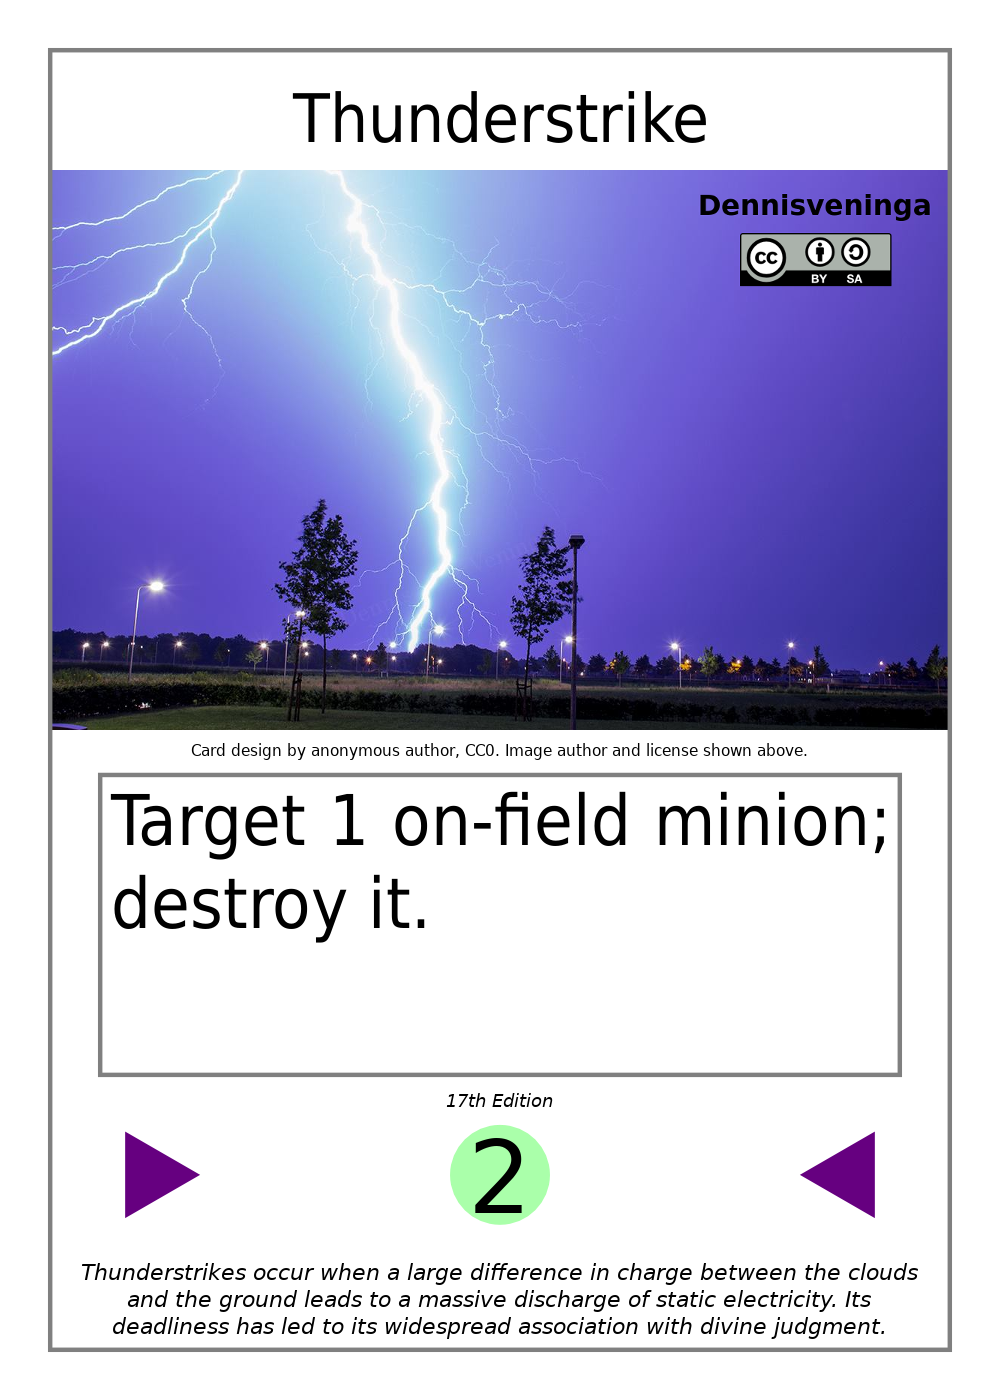
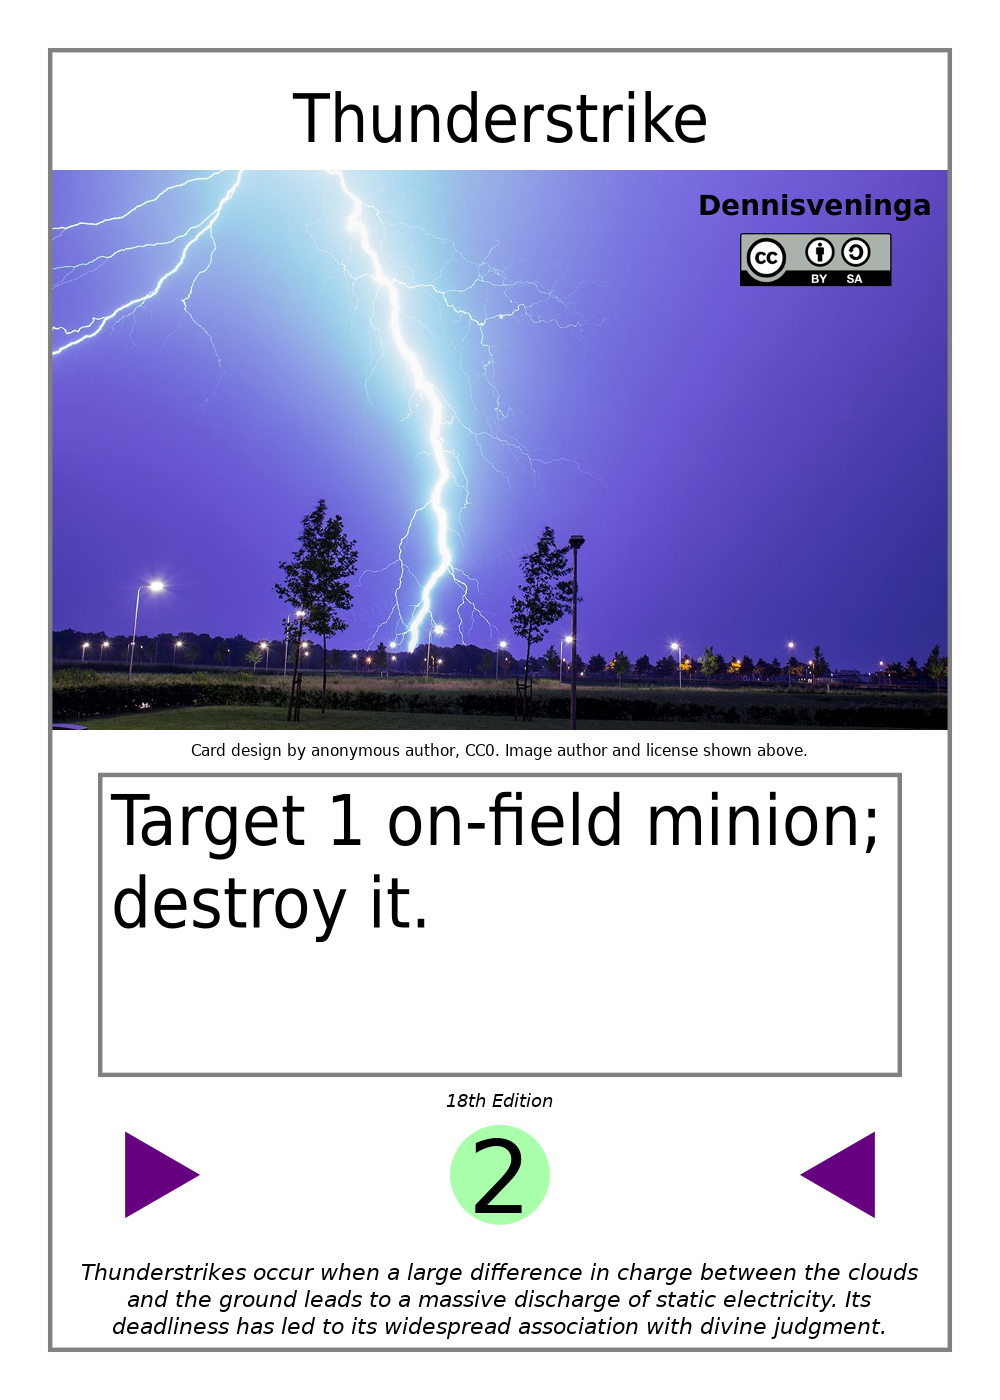
Updated the examples.
I've decided to keep Thor among the examples, since it's still a
valid card and being so similar to Thunderstrike I think makes it
easy to digest.

Changed region(s): [[0.341, 0.5529, 0.899, 0.6143], [0.155, 0.645, 0.186, 0.6757]]

diff --git a/examples.html b/examples.html
@@ -2,7 +2,7 @@
 <html lang="en">
 
 <head>
-    <title>Card Building Examples (17th Edition) - Keeper of the Cards</title>
+    <title>Card Building Examples (18th Edition) - Keeper of the Cards</title>
     <meta name="description" content="The ultimate DIY trading card game" />
     <meta name="keywords" content="kotc" />
     <meta http-equiv="content-type" content="text/html; charset=utf-8" />
@@ -24,7 +24,7 @@
     <h1 class="header">Keeper of the Cards</h1>
 
     <main>
-        <h2>Card Building Examples (17<sup>th</sup> Edition)</h2>
+        <h2>Card Building Examples (18<sup>th</sup> Edition)</h2>
         <p>This page is a supplement to the <a href="cardbuilding.html">Card Building Guide</a>. It goes over how to recreate specific examples of cards from the starter decks, starting with the least complex and gradually moving upward in complexity.</p>
 
         <div class="no-break">
@@ -33,7 +33,7 @@
             <ol type="1">
                 <li><a href="#velociraptor">Minion: Velociraptor</a></li>
                 <li><a href="#antibiotic">Spell: Antibiotic</a></li>
-                <li><a href="#asteroid">Spell: Asteroid Impact</a></li>
+                <li><a href="#tornado">Spell: Tornado</a></li>
                 <li><a href="#thunderstrike">Spell: Thunderstrike</a></li>
                 <li><a href="#thor">Minion: Thor</a></li>
                 <li><a href="#equus-africanus-asinus">Minion: Equus Africanus Asinus</a></li>
@@ -52,6 +52,7 @@
             <li>Take the minion's HP and divide it by 2. Add the result (2 in this case) to the minion's level, bringing it to 4.</li>
             <li>The minion's final level in this example is 4.</li>
         </ol>
+        <p>Note: the image also contains tutorial text explaining that the minion has Haste and how it works. Tutorial text is optional and has no effect on what the card actually does.</p>
 
         <h3 id="antibiotic">Spell: Antibiotic</h3>
         <img class="example" src="images/build-examples/antibiotic.png" alt="Antibiotic: level 2 spell with ability: &ldquo;2-dice-heal yourself.&rdquo;">
@@ -74,7 +75,7 @@
         </ol>
         <p>Note: the image also contains tutorial text explaining the dice-heal mechanic. Tutorial text is optional and has no effect on what the card actually does.</p>
 
-        <h3 id="asteroid">Spell: Tornado</h3>
+        <h3 id="tornado">Spell: Tornado</h3>
         <img class="example" src="images/build-examples/tornado.png" alt="Tornado: level 4 spell with ability: &ldquo;Target up to 2 on-field minions; destroy the targets.&rdquo;">
         <p>This spell is slightly more complex than Antibiotic, but still fairly simple, composed of a single target selection and a single effect. The following steps recreate this spell:</p>
         <ol>
@@ -129,7 +130,7 @@
 
         <h3 id="thunderstrike">Spell: Thunderstrike</h3>
         <img class="example" src="images/build-examples/thunderstrike.png" alt="Thunderstrike: level 2 spell with ability: &ldquo;Target 1 on-field minion; destroy it.&rdquo;">
-        <p>This lower-level spell is made in almost exactly the same way as Asteroid Impact. The following steps recreate it:</p>
+        <p>This lower-level spell is made in almost exactly the same way as Tornado. The following steps recreate it:</p>
         <ol>
             <li>Begin with the spell's level set to 0.</li>
             <li>Choose the effect you want from <a href="cardbuilding.html#effects">Card Building Guide: Effects</a>. In this case, it's: &ldquo;destroy the targets.&rdquo;</li>
